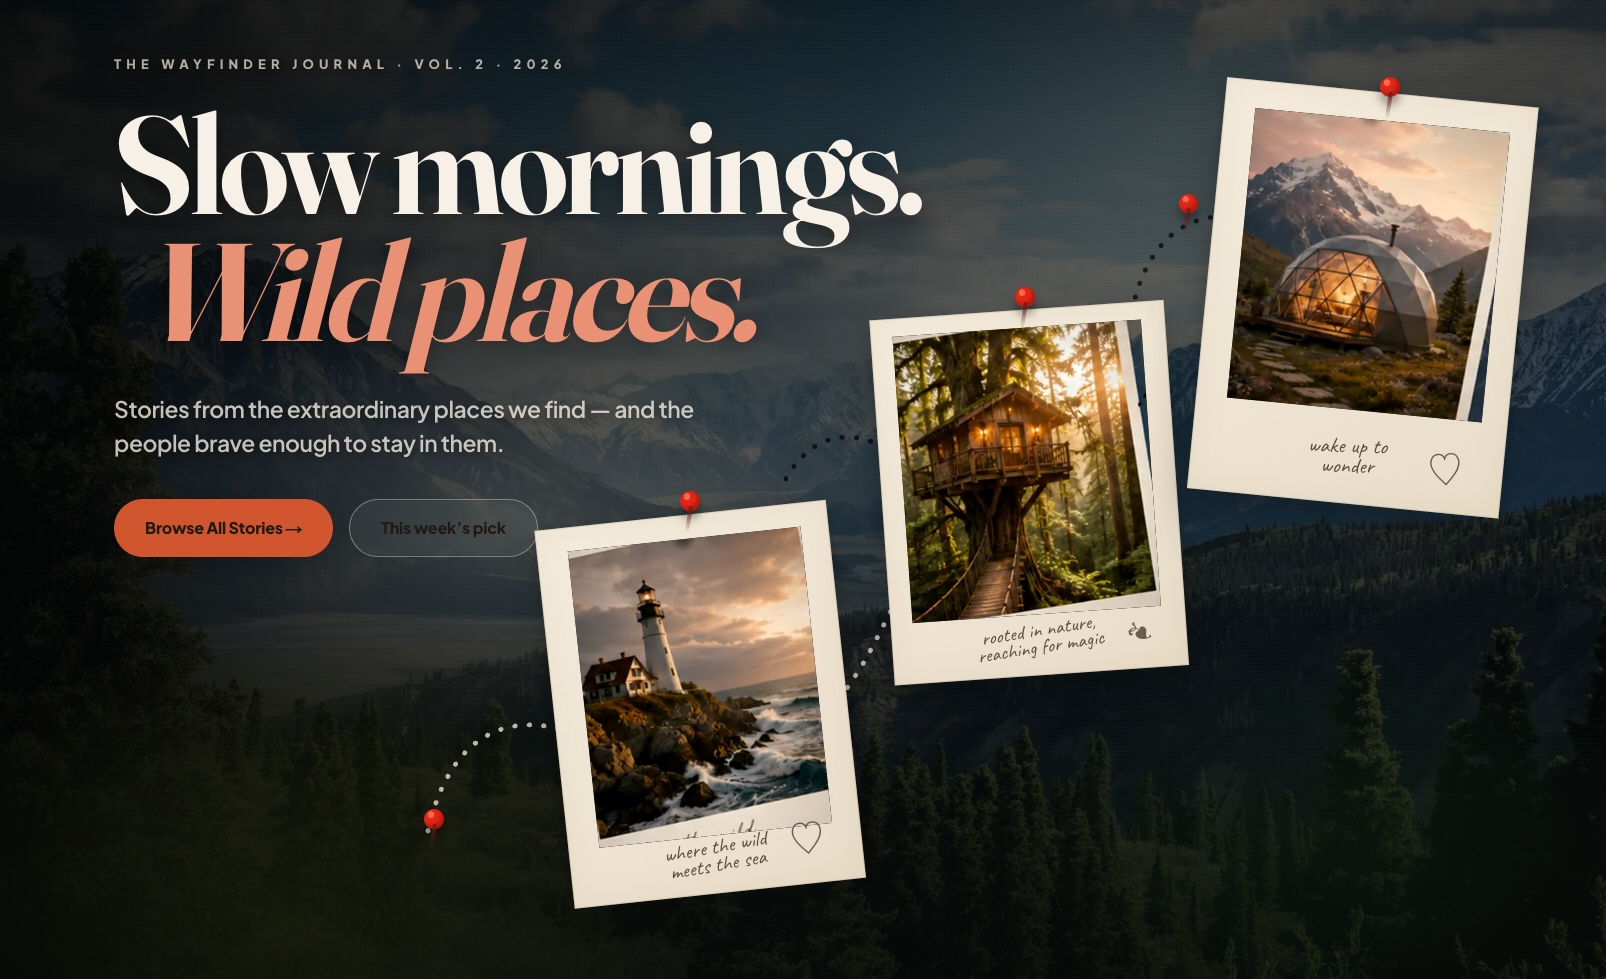
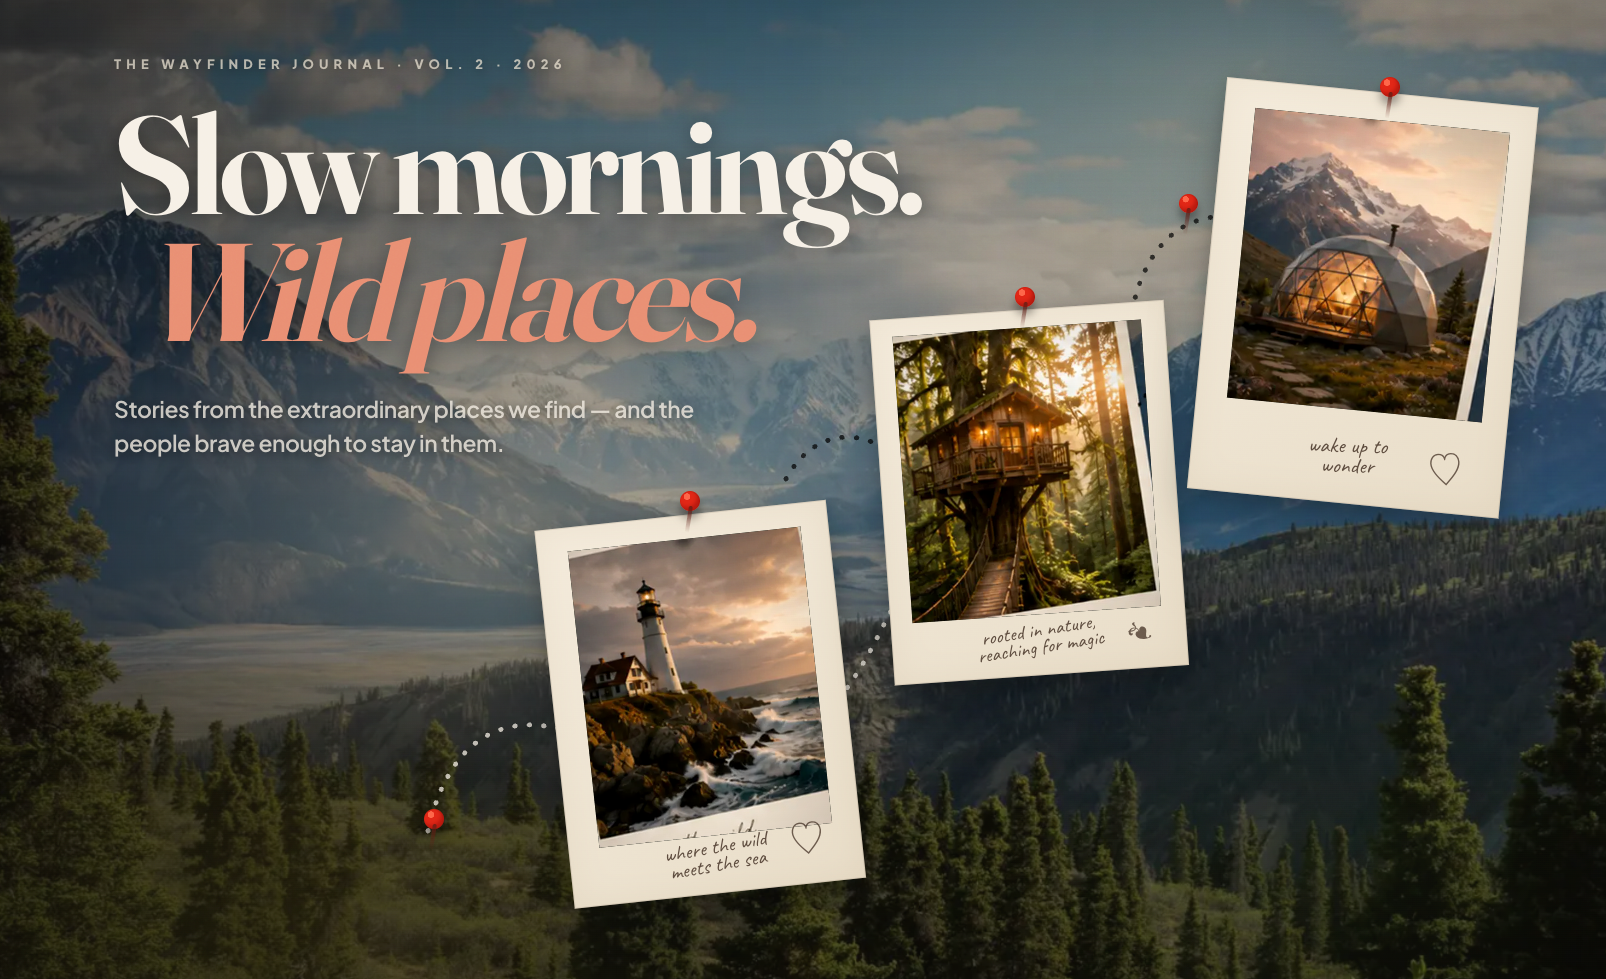
polish(journal): warm animated hero backdrop

diff --git a/src/app/(app)/globals.css b/src/app/(app)/globals.css
@@ -483,14 +483,38 @@ body:has(.journal-hero) nextjs-portal {
 
 .journal-hero__bg {
   position: absolute;
-  inset: -1.12cqw;
+  inset: -3cqw;
   z-index: 0;
   transform: scale(1.025);
 }
 
 .journal-hero__img {
   object-fit: cover;
-  filter: saturate(0.9) brightness(0.86) contrast(1.06);
+  filter: saturate(1.08) brightness(1.05) contrast(1.01) sepia(0.06);
+  animation: journalKB 48s cubic-bezier(0.25, 0.1, 0.25, 1) infinite alternate;
+  will-change: transform;
+}
+
+@keyframes journalKB {
+  0% {
+    transform: scale(1.06) translate3d(-1.5%, -1%, 0);
+  }
+
+  25% {
+    transform: scale(1.1) translate3d(0.5%, 0.5%, 0);
+  }
+
+  50% {
+    transform: scale(1.04) translate3d(1%, -0.5%, 0);
+  }
+
+  75% {
+    transform: scale(1.08) translate3d(-0.5%, 0.8%, 0);
+  }
+
+  100% {
+    transform: scale(1.07) translate3d(0.3%, -0.3%, 0);
+  }
 }
 
 .journal-hero__bg::before {
@@ -499,9 +523,9 @@ body:has(.journal-hero) nextjs-portal {
   inset: 0;
   z-index: 1;
   background:
-    radial-gradient(ellipse at 72% 30%, rgba(28, 36, 35, 0.05), rgba(7, 12, 13, 0.16) 48%, rgba(3, 5, 5, 0.56) 100%),
-    linear-gradient(90deg, rgba(8, 10, 10, 0.58) 0%, rgba(15, 21, 22, 0.32) 45%, rgba(14, 19, 19, 0.14) 100%),
-    linear-gradient(180deg, rgba(13, 13, 12, 0.18) 0%, rgba(13, 17, 18, 0.22) 38%, rgba(5, 7, 7, 0.5) 100%);
+    radial-gradient(ellipse at 72% 30%, rgba(88, 68, 42, 0.04), rgba(28, 23, 16, 0.06) 48%, rgba(14, 12, 8, 0.26) 100%),
+    linear-gradient(90deg, rgba(8, 8, 7, 0.31) 0%, rgba(40, 29, 18, 0.13) 45%, rgba(56, 39, 22, 0.04) 100%),
+    linear-gradient(180deg, rgba(75, 52, 27, 0.02) 0%, rgba(86, 61, 33, 0.05) 42%, rgba(16, 14, 8, 0.21) 100%);
   pointer-events: none;
 }
 
@@ -511,10 +535,10 @@ body:has(.journal-hero) nextjs-portal {
   inset: 0;
   z-index: 2;
   background:
-    radial-gradient(ellipse at 33% 53%, rgba(238, 230, 208, 0.18), transparent 28%),
-    radial-gradient(ellipse at 75% 15%, rgba(248, 222, 181, 0.12), transparent 20%),
-    linear-gradient(180deg, rgba(4, 6, 6, 0.22), transparent 35%),
-    linear-gradient(90deg, rgba(0, 0, 0, 0.32), transparent 58%);
+    radial-gradient(ellipse at 33% 53%, rgba(255, 229, 185, 0.3), transparent 31%),
+    radial-gradient(ellipse at 75% 15%, rgba(255, 214, 154, 0.23), transparent 24%),
+    linear-gradient(180deg, rgba(36, 25, 14, 0.06), transparent 35%),
+    linear-gradient(90deg, rgba(8, 7, 6, 0.18), transparent 58%);
   pointer-events: none;
 }
 
@@ -523,9 +547,9 @@ body:has(.journal-hero) nextjs-portal {
   inset: 0;
   z-index: 1;
   background:
-    linear-gradient(180deg, transparent 0 72%, rgba(7, 12, 8, 0.36) 92%),
-    radial-gradient(ellipse at 18% 93%, rgba(95, 102, 28, 0.24), transparent 22%),
-    radial-gradient(ellipse at 84% 86%, rgba(30, 57, 33, 0.32), transparent 18%);
+    linear-gradient(180deg, transparent 0 72%, rgba(14, 17, 9, 0.18) 92%),
+    radial-gradient(ellipse at 18% 93%, rgba(128, 111, 39, 0.2), transparent 22%),
+    radial-gradient(ellipse at 84% 86%, rgba(48, 72, 36, 0.18), transparent 18%);
   pointer-events: none;
 }
 
@@ -585,44 +609,6 @@ body:has(.journal-hero) nextjs-portal {
   letter-spacing: -0.03cqw;
   line-height: 1.47;
   text-shadow: 0 0.12cqw 0.75cqw rgba(0, 0, 0, 0.46);
-}
-
-.journal-hero__ctas {
-  display: flex;
-  align-items: center;
-  gap: 1cqw;
-  margin-top: 2.43cqw;
-}
-
-.journal-hero__btn {
-  display: inline-flex;
-  align-items: center;
-  justify-content: center;
-  height: 3.61cqw;
-  border-radius: 999px;
-  padding: 0 1.93cqw;
-  color: #151312;
-  font-family: var(--font-body);
-  font-size: 1cqw;
-  font-weight: 800;
-  letter-spacing: -0.016cqw;
-  line-height: 1;
-  text-decoration: none;
-  box-shadow: 0 0.62cqw 1.62cqw rgba(0, 0, 0, 0.18);
-}
-
-.journal-hero__btn--primary {
-  min-width: 13.64cqw;
-  background: var(--hero-button);
-}
-
-.journal-hero__btn--ghost {
-  min-width: 11.08cqw;
-  color: rgba(12, 13, 13, 0.82);
-  background: rgba(238, 238, 222, 0.06);
-  border: 0.09cqw solid rgba(246, 240, 230, 0.34);
-  box-shadow: inset 0 0 0 0.06cqw rgba(0, 0, 0, 0.08);
-  backdrop-filter: blur(3px);
 }
 
 .journal-hero__polaroid {
@@ -889,6 +875,12 @@ body:has(.journal-hero) nextjs-portal {
 
   .journal-hero__wrap {
     width: 100vw;
+  }
+}
+
+@media (prefers-reduced-motion: reduce) {
+  .journal-hero__img {
+    animation: none;
   }
 }
 

diff --git a/src/app/(app)/journal/_journal/JournalHero.tsx b/src/app/(app)/journal/_journal/JournalHero.tsx
@@ -1,7 +1,6 @@
 'use client'
 
 import Image from 'next/image'
-import Link from 'next/link'
 
 const ASSET_BASE = '/prototypes/journal-hero-pixel-match'
 const HERO_IMAGE = `${ASSET_BASE}/background.png`
@@ -98,15 +97,6 @@ export default function JournalHero() {
             </h1>
 
             <p className="journal-hero__sub">{SUB}</p>
-
-            <div className="journal-hero__ctas">
-              <Link href="#board" className="journal-hero__btn journal-hero__btn--primary">
-                Browse All Stories &rarr;
-              </Link>
-              <Link href="#board" className="journal-hero__btn journal-hero__btn--ghost">
-                This week&rsquo;s pick
-              </Link>
-            </div>
           </div>
 
           {POLAROIDS.map((polaroid) => (
